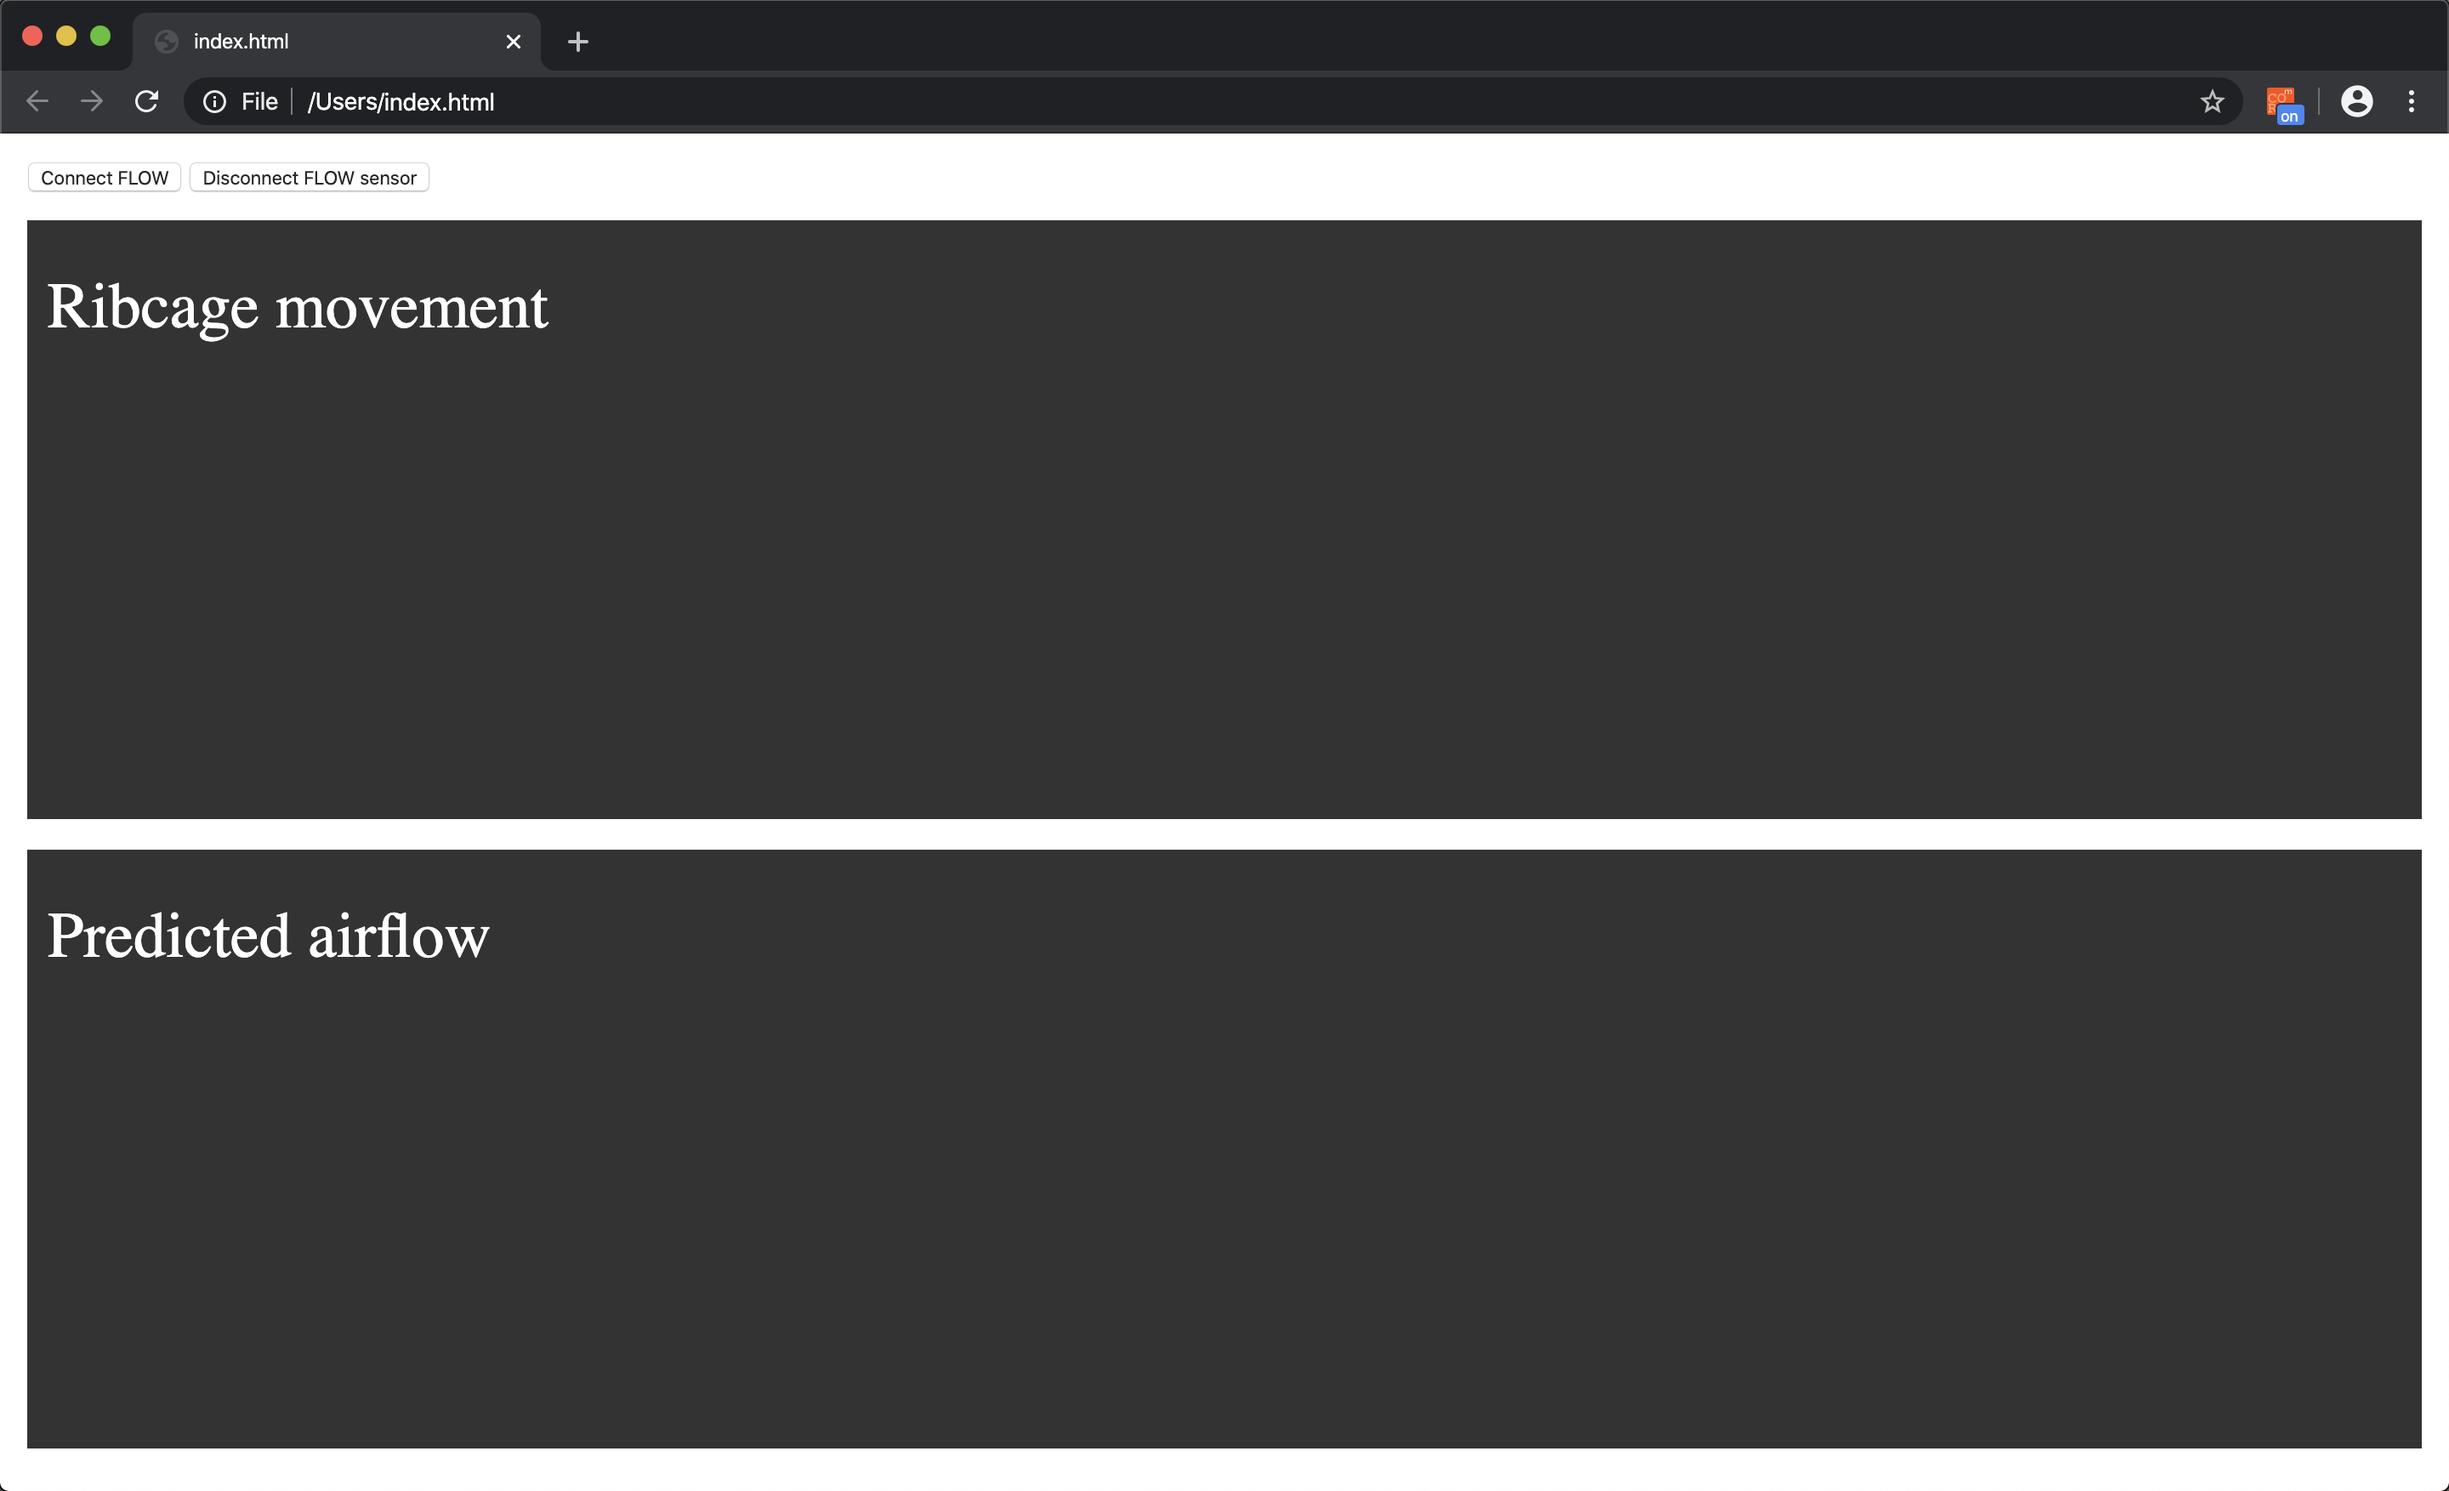
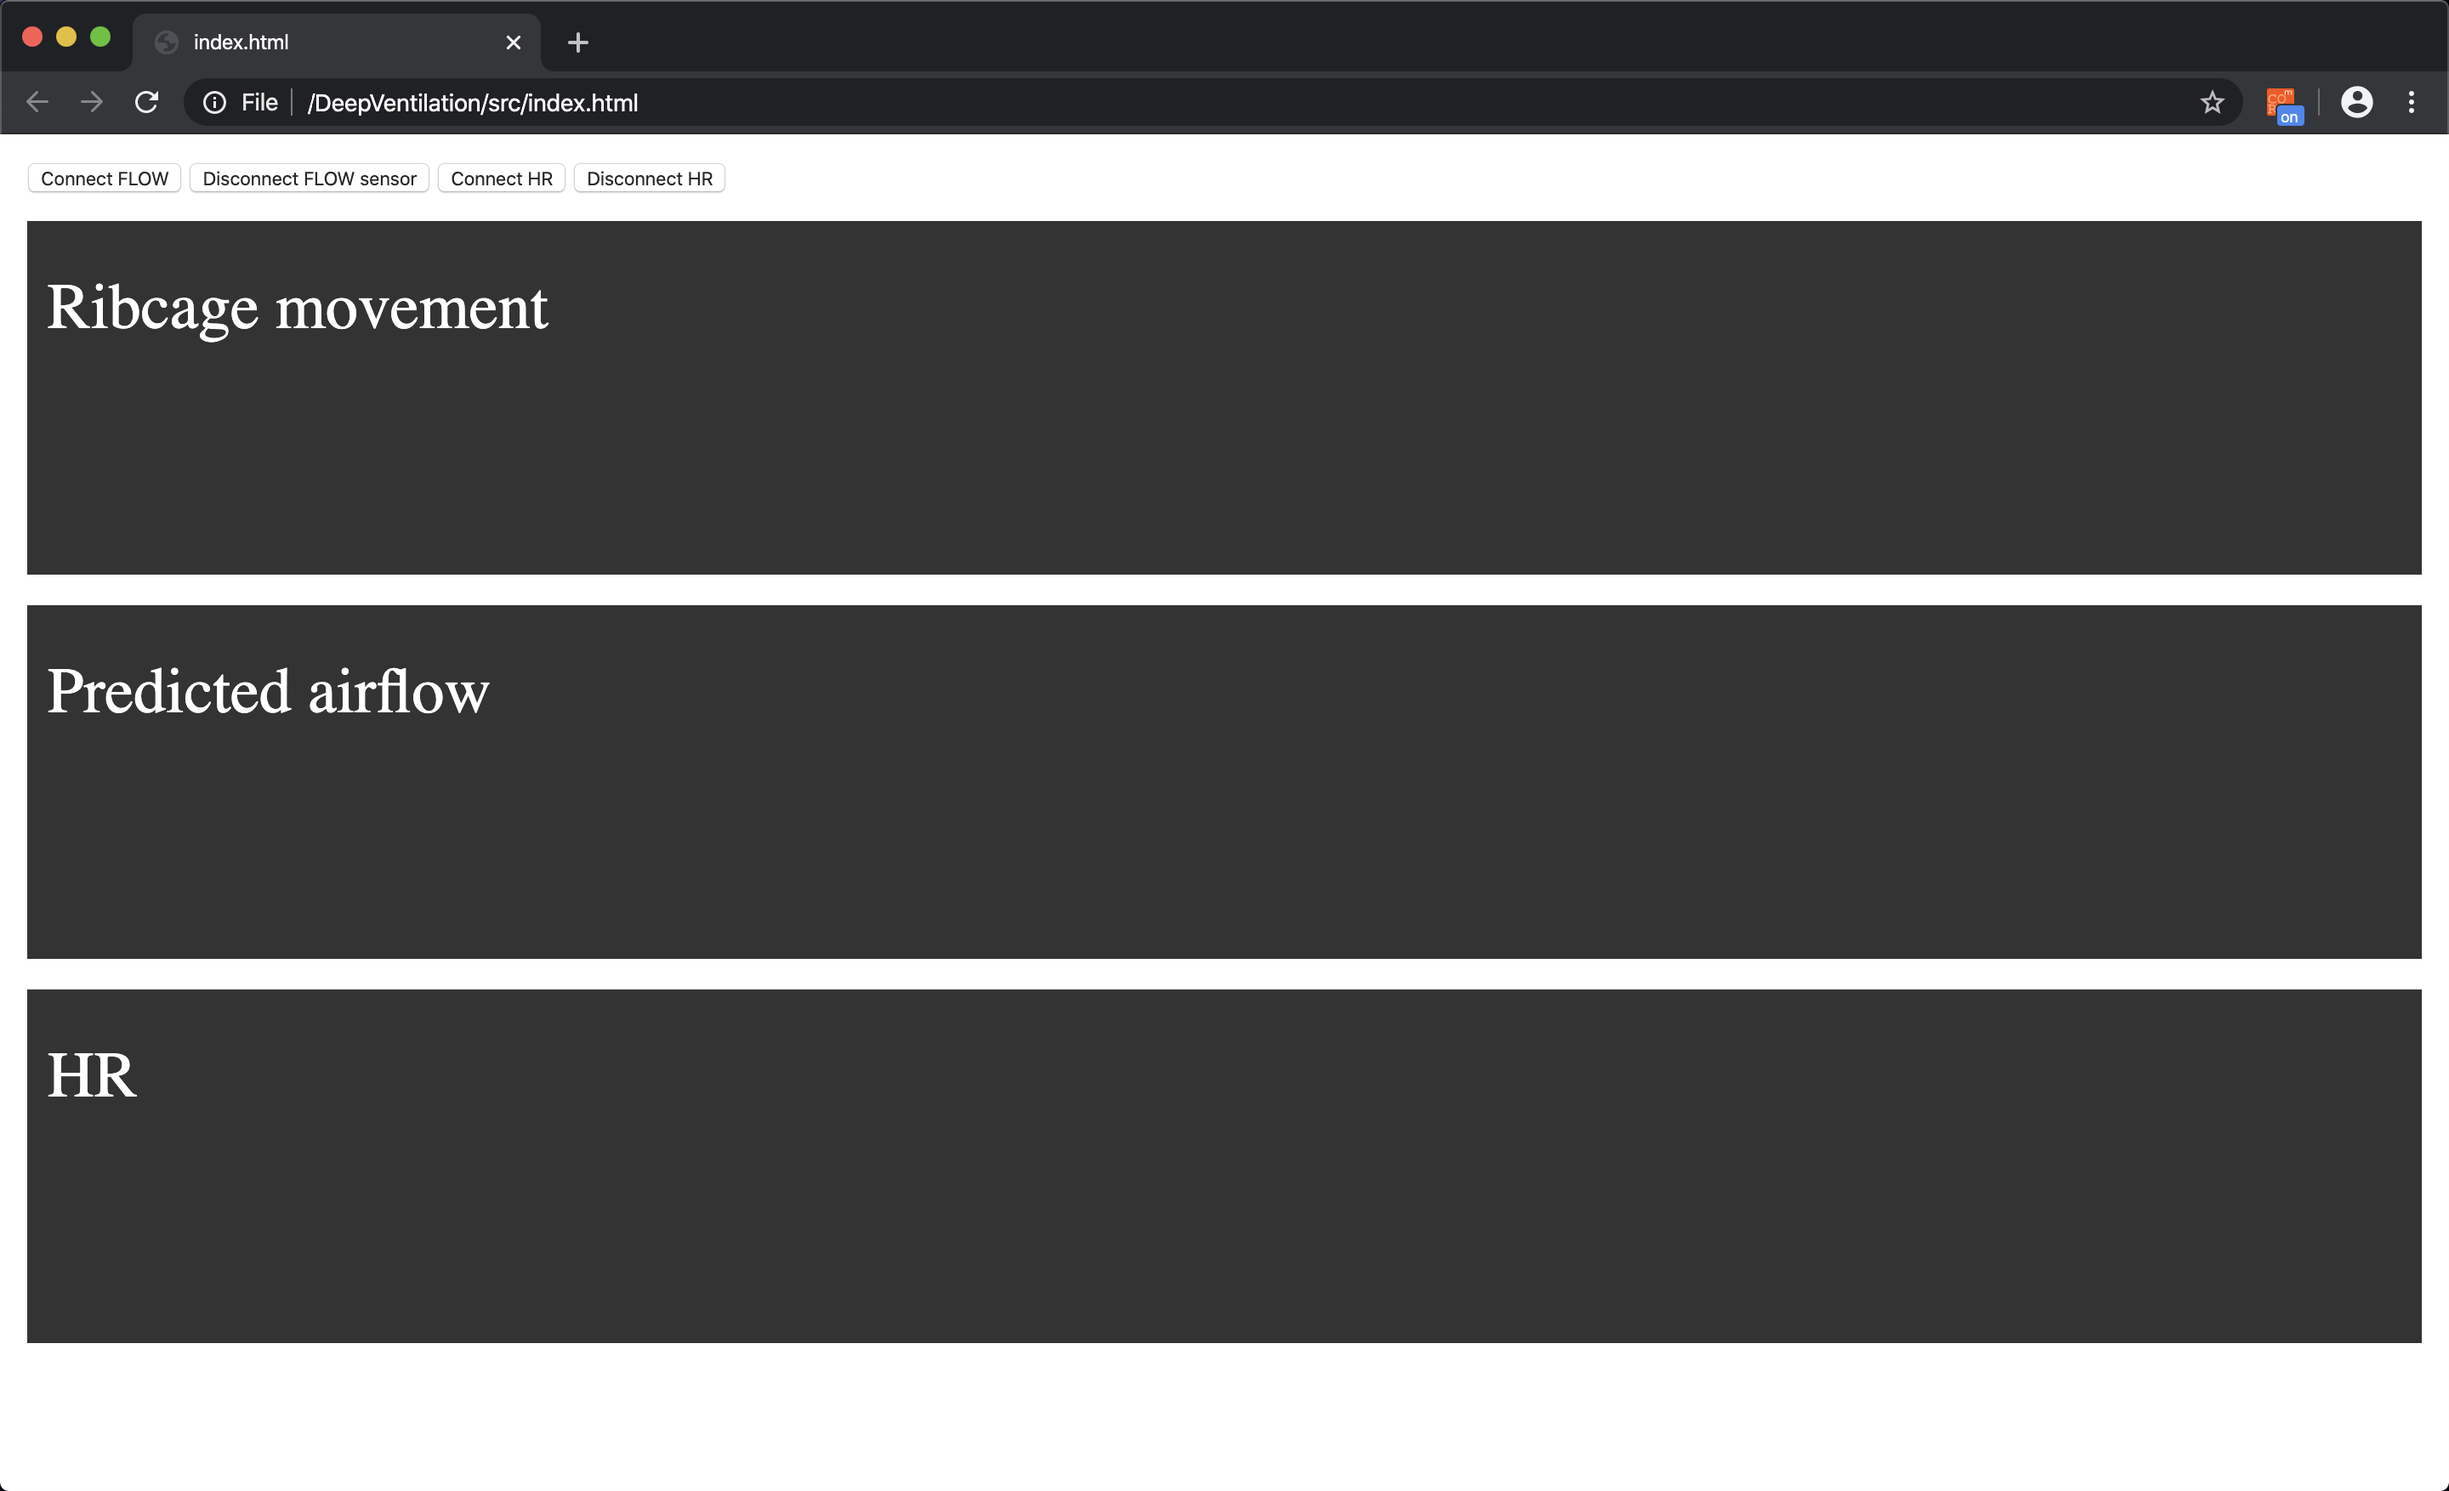
Update readme

diff --git a/src/js/heartrate.js b/src/js/heartrate.js
@@ -80,6 +80,8 @@ async function onStopHeartRateClick() {
 
 
 var heartRateValues = [];
+var maxHRVal = 0;
+var minHRVal = 200;
 var heartRateText = document.querySelector('#heartRateText');
 var heartRateCanvas = document.querySelector('#heartRateChart');
 
@@ -103,19 +105,26 @@ function handleHeartRateNotifications(event) {
         result.heartRate = value.getUint8(index);
         index += 1;
     }
-    let contactDetected = flags & 0x2;
-    let contactSensorPresent = flags & 0x4;
-    if (contactSensorPresent) {
-        result.contactDetected = !!contactDetected;
-    }
 
     heartRateText.innerHTML = result.heartRate + ' bpm';
     heartRateValues.push(result.heartRate);
 
-    if (heartRateValues.length > 20) {
+    if (result.heartRate > maxHRVal) {
+        maxHRVal = result.heartRate;
+    }
+    if (result.heartRate < minHRVal) {
+        minHRVal = result.heartRate;
+    }
+    let heartRateRange = maxHRVal - minHRVal;
+    var heartRatePlotValues = heartRateValues.map(function(element) {
+        return (element - minHRVal)/heartRateRange;
+    });
+
+
+    if (heartRateValues.length > 40) {
         heartRateValues.shift();
     }
 
-    drawWaves(heartRateValues, heartRateCanvas, 200, 60, 70);
+    drawWaves(heartRatePlotValues, heartRateCanvas, 1, 60, 70);
 }
 

diff --git a/src/js/flow-ribcage.js b/src/js/flow-ribcage.js
@@ -104,8 +104,8 @@ function handleFlowRibcageNotifications(event) {
         return (element - minRibVal)/ribcageRange;
     });
 
-    // if (ribcagePlotValues.length > 455) {
-    if (ribcagePlotValues.length > 200) {
+    if (ribcagePlotValues.length > 455) {
+    // if (ribcagePlotValues.length > 200) {
         ribcageValues.splice(0, 7);
     }
     drawWaves(ribcagePlotValues, ribcageCanvas, 1, 6.0);
@@ -152,8 +152,8 @@ function handleFlowRibcageNotifications(event) {
         
     } 
 
-    // if (airflowValues.length > 64) {
-    if (airflowValues.length > 28) {
+    if (airflowValues.length > 64) {
+    // if (airflowValues.length > 28) {
         airflowValues.shift();
     }
 }

diff --git a/src/css/style.css b/src/css/style.css
@@ -73,9 +73,9 @@ body {
   /* right: 0; */
   /* left: 0; */
   margin: 0 auto;
-  height: 12em;
+  height: 11em;
   padding: 1em 0 1em 0;
-  width: 40em;
+  /* width: 40em; */
   /* bottom: 0; */
   background-color: #333333;
   /* font-family: Roboto; */

diff --git a/README.md b/README.md
@@ -10,7 +10,7 @@ Hardware:
 * [SweetZpot FLOW breathing sensor](https://www.sweetzpot.com/flow) ([SweetZpot
   on Facebook](https://www.facebook.com/sweetzpot)).
 
-![The SweetZpot FLOW sensor](img/breathzpot.jpg)
+![The SweetZpot FLOW sensor](img/flow.jpg)
 
 Software:
 
@@ -58,16 +58,12 @@ Software:
    real time graph of the ribcage movement is shown.
 9. After 5 seconds of FLOW sensor data is sampled, the airflow prediction
    begins, and shows a real time graph.
-10. To sample heart rate data (optional), the FLOW sensor needs skin contact,
-    but should still be worn around the chest, just below the chest muscles.
-    Click **Connect HR**, and pair the sensor as described above. It may take up
-    to 30 seconds before the heart rate appears, if you already are sampling
-    data of ribcage movement.
+10. To sample heart rate data (optional), wear a heart rate sensor just below
+    the chest muscles next to the skin. Click **Connect HR**, and pair the
+    sensor as described above. 
 
-
-
-The real time graphs of breathing data and predicted airflow will automatically
-scale based on the maximum and minimum values obtained.
+The real time graphs will automatically scale based on the maximum and minimum
+values obtained.
 
 
 ### Troubleshooting
@@ -75,6 +71,7 @@ scale based on the maximum and minimum values obtained.
 If you experience trouble with connecting the sensor, or the web app does not
 visualize any data, you could try:
 
+- Reload the page (`index.html`), and try to reconnect to sensor(s).
 - Open the JavaScript console in the browser (in Google Chrome: View ->
   Developer -> Javascript Console). Any error messages will appear here.
 - Double check that the script `app.py` is running in the background. When
